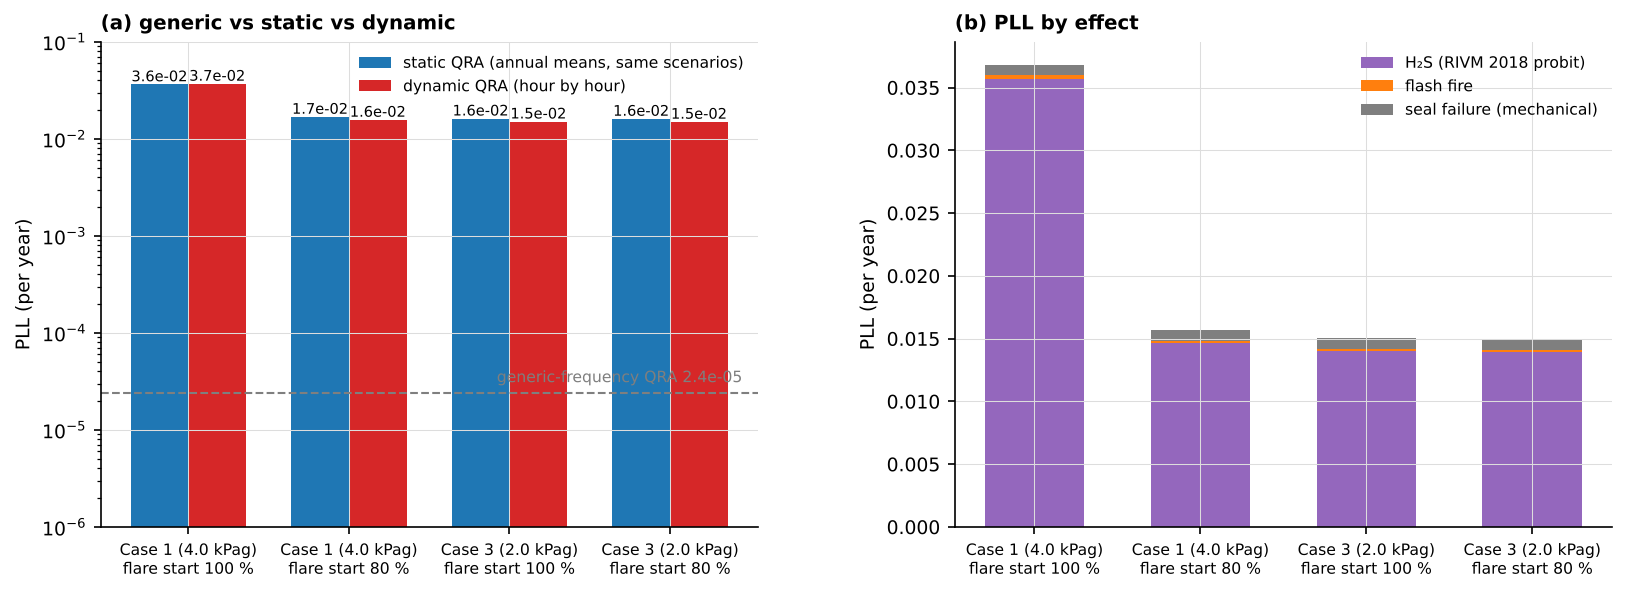
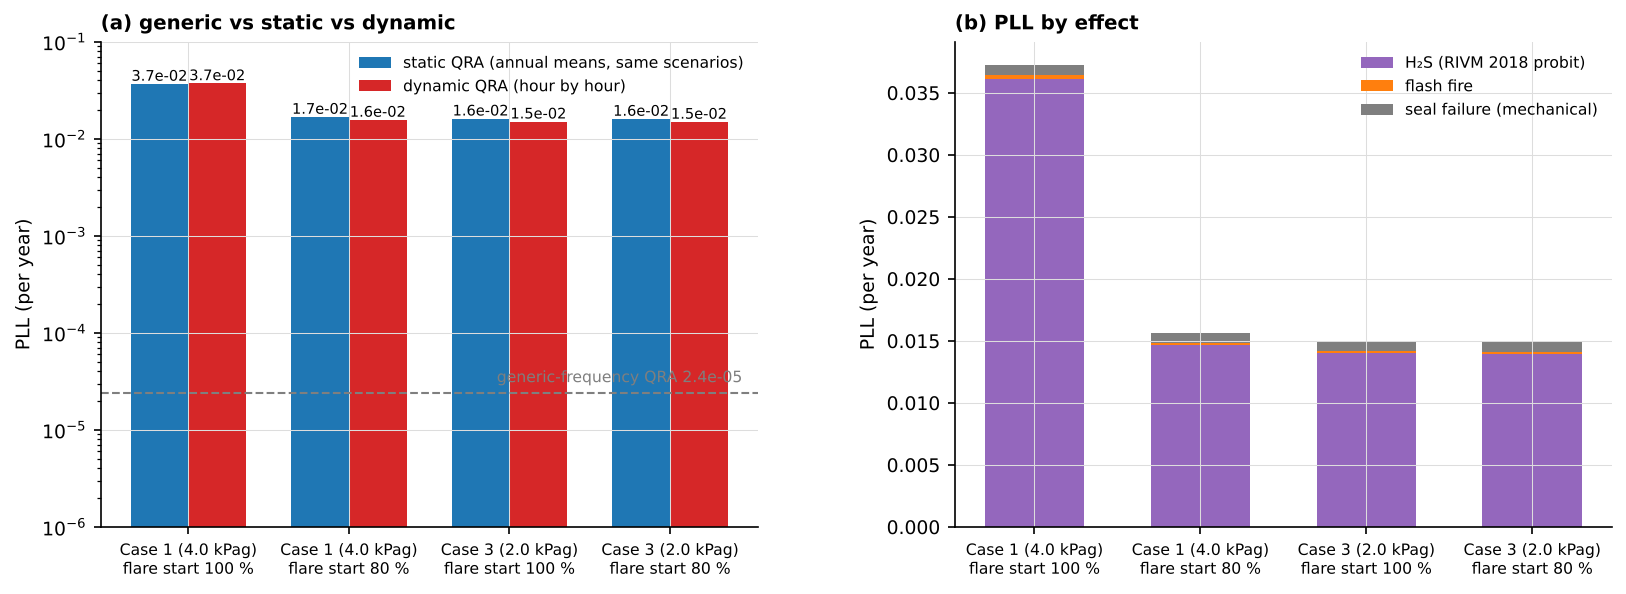
v1.2: pin BN v4.2 (flare demanded at the full holder)
The BN evaluated the flare demand at a 100 % start level at 99.9 % fill, which
delayed every demand-branch opening by 1-2 min. With BN v4.2 (c68d33d) only the
flare-start-100 % cases change: Case 1 openings 81.5 -> 83.1, CH4 318 -> 336 kg,
PLL 3.68 -> 3.73e-2, IR 1.31 -> 1.33e-2. Tables and figures regenerated.

Claude-Session: https://claude.ai/code/session_015w7cPEZmBmH3CRSdnbx17g

diff --git a/upstream/bayesian_network/pv_bn.py b/upstream/bayesian_network/pv_bn.py
@@ -97,7 +97,7 @@ def slice_inference(case, q, fill, p_atm, demand, day, winter, prm, wv_prob):
     t_open = float(ph.t_full_h(fill, q, p_atm, case) + ph.t_rigid_h(case, q))
     po = 0.0; vent = 0.0; dur = 0.0; iv = []
     for b, pb in bias.items():
-        fon = min(f_on + b, 0.999)
+        fon = min(f_on + b, 1.0)                 # v4.2: the flare is demanded at the indicated fill itself (100 % = holder just full), as in the 1-s model
         t_on = (fon - fill) * ph.V_MAX * (p_atm + ph.P_OP[case]) / ph.P_REF / q if fill < fon else 0.0
         for D, pD in prm['D_dist']['v'].items():
             for e, pe in recov.items():
@@ -111,7 +111,7 @@ def slice_inference(case, q, fill, p_atm, demand, day, winter, prm, wv_prob):
     if demand > 0 and q > use:
         po = vent = dur = 0.0; iv = []
         for b, pb in bias.items():
-            f0 = min(f_on + b, 0.999)
+            f0 = min(f_on + b, 1.0)              # v4.2: was 0.999, which added the time to fill the last 0.5 m3 (1-2 min) before the rigid phase
             t_o = float(ph.t_full_h(f0, q - use, p_atm, case) + ph.t_rigid_h(case, q - use))
             for e, pe in recov.items():
                 if t_o < e:

diff --git a/dynamic_qra/risk.py b/dynamic_qra/risk.py
@@ -2,7 +2,7 @@
 """
 Dynamic QRA, stage 3: event tree after "PVRV opens" (or fails to open) and the time-resolved risk integration.
 
-Frequency side  : the hourly BN results (upstream/bayesian_network/pv_bn.py, v4.1, pinned from biogas-pvrv-BN) give, per hour h and initiating event k,
+Frequency side  : the hourly BN results (upstream/bayesian_network/pv_bn.py, v4.2, pinned from biogas-pvrv-BN) give, per hour h and initiating event k,
                     p_k(h)  probability that an event starting in hour h opens the valve
                     o_k(h)  ... and that the operator reaches the valve while it is still venting
                     s_k(h)  probability that the valve is open during hour h (state probability)

diff --git a/README.md b/README.md
@@ -94,10 +94,12 @@ Models screened out, with the reason recorded in the code: **jet fire** (flame F
 
 | Case | Flare start | PVRV openings /yr | PLL, responders + routine /yr | IR, most exposed individual /yr | ignition-failure chatter (PLL) | digester isolation (foam, condensate, freezing) | no relief → manual vent / seal failure (fouled + hardware) | routine roof work | H₂S share of PLL | CH₄ vented kg/yr |
 |---|---|---|---|---|---|---|---|---|---|---|
-| 1 (4.0 kPag) | 100 % | 81.5 | 3.7 × 10⁻² | 1.3 × 10⁻² | 2.0 × 10⁻² | 1.1 × 10⁻² | 3.8 × 10⁻³ | 1.3 × 10⁻³ | 97 % | 318 |
+| 1 (4.0 kPag) | 100 % | 83.1 | 3.7 × 10⁻² | 1.3 × 10⁻² | 2.1 × 10⁻² | 1.1 × 10⁻² | 3.8 × 10⁻³ | 1.3 × 10⁻³ | 97 % | 336 |
 | 1 (4.0 kPag) | 80 % | 1.40 | 1.6 × 10⁻² | 5.5 × 10⁻³ | ~0 | 1.1 × 10⁻² | 3.8 × 10⁻³ | 4.5 × 10⁻⁴ | 94 % | 69 |
-| 3 (2.0 kPag) | 100 % | 2.86 | 1.5 × 10⁻² | 5.1 × 10⁻³ | ~0 | 1.1 × 10⁻² | 3.8 × 10⁻³ | 1.8 × 10⁻⁴ | 94 % | 70 |
+| 3 (2.0 kPag) | 100 % | 2.88 | 1.5 × 10⁻² | 5.1 × 10⁻³ | ~0 | 1.1 × 10⁻² | 3.8 × 10⁻³ | 1.8 × 10⁻⁴ | 94 % | 71 |
 | 3 (2.0 kPag) | 80 % | 1.31 | 1.5 × 10⁻² | 5.1 × 10⁻³ | ~0 | 1.1 × 10⁻² | 3.8 × 10⁻³ | 1.7 × 10⁻⁴ | 93 % | 64 |
+
+**v1.2 (2026-10-26): BN v4.2 pinned.** The BN now demands the flare when the holder is just full instead of at 99.9 % fill. Only the flare-start-100 % cases move: Case 1 openings 81.5 → 83.1, CH₄ 318 → 336 kg, PLL 3.68 → 3.73 × 10⁻², IR 1.31 → 1.33 × 10⁻²; the 80 % cases are unchanged.
 
 **v1.1 (2026-10-21): the H₂S probit.** Up to v1.0 the H₂S fatality used the Bevi (2009) constants (−11.5, 1, 1.9) with the concentration in **ppm**, whereas they are defined for mg/m³; the same constants with the right unit give about twice the toxic load (1.417^1.9), and the RIVM (2018, interim) probit Pr = −7.87 + 0.31 ln(C^6.52 t) (C mg/m³, t min; 30-min LC50 ≈ 244 ppm, LC01 ≈ 77 ppm) is much steeper still. The v1.0 results (PLL 1.1–1.3 × 10⁻³, IR 3.8–5.1 × 10⁻⁴, blocked-PVRV chain 78–93 %) were therefore driven by an H₂S term that was close to zero. With the RIVM probit the plume at 1 m from an open valve (several hundred to 1,400 ppm H₂S) is lethal within one to two minutes of the pulsed exposure, and H₂S becomes 93–97 % of the PLL. The Bevi (2009) value with the correct unit gives 1.1–1.5 × 10⁻³ — the choice of probit is now the largest single uncertainty, and RIVM itself calls its 2018 function interim. The same revision unified the PVRV fouling probability (BN 0.3 → 0.1, now read from the BN), added the NOG-070 hardware fail-to-open branch, made the seal-failure window depend on the hour, used the hourly H₂S of the raw gas, added H₂S in the seal-failure cloud, and added the static QRA, the near-field and entrainment sensitivities.
 

diff --git a/upstream/README.md b/upstream/README.md
@@ -1,6 +1,6 @@
 # upstream/
 
-Pinned copy of what this repository needs from [biogas-pvrv-BN](https://github.com/drinkgarlic/biogas-pvrv-BN), taken at commit `6ec31d6` (BN v4.1: p_pv_fouled 0.1, NOG-070 p_pv_stuck and beta_pv; `pv_bn.py` only changed since `bc655ef`).
+Pinned copy of what this repository needs from [biogas-pvrv-BN](https://github.com/drinkgarlic/biogas-pvrv-BN), taken at commit `c68d33d` (BN v4.2: flare demanded at the full holder; v4.1 `6ec31d6`: p_pv_fouled 0.1, NOG-070 p_pv_stuck and beta_pv; `pv_bn.py` only changed since `bc655ef`).
 
 | Path | Origin in biogas-pvrv-BN | Used by |
 |---|---|---|
